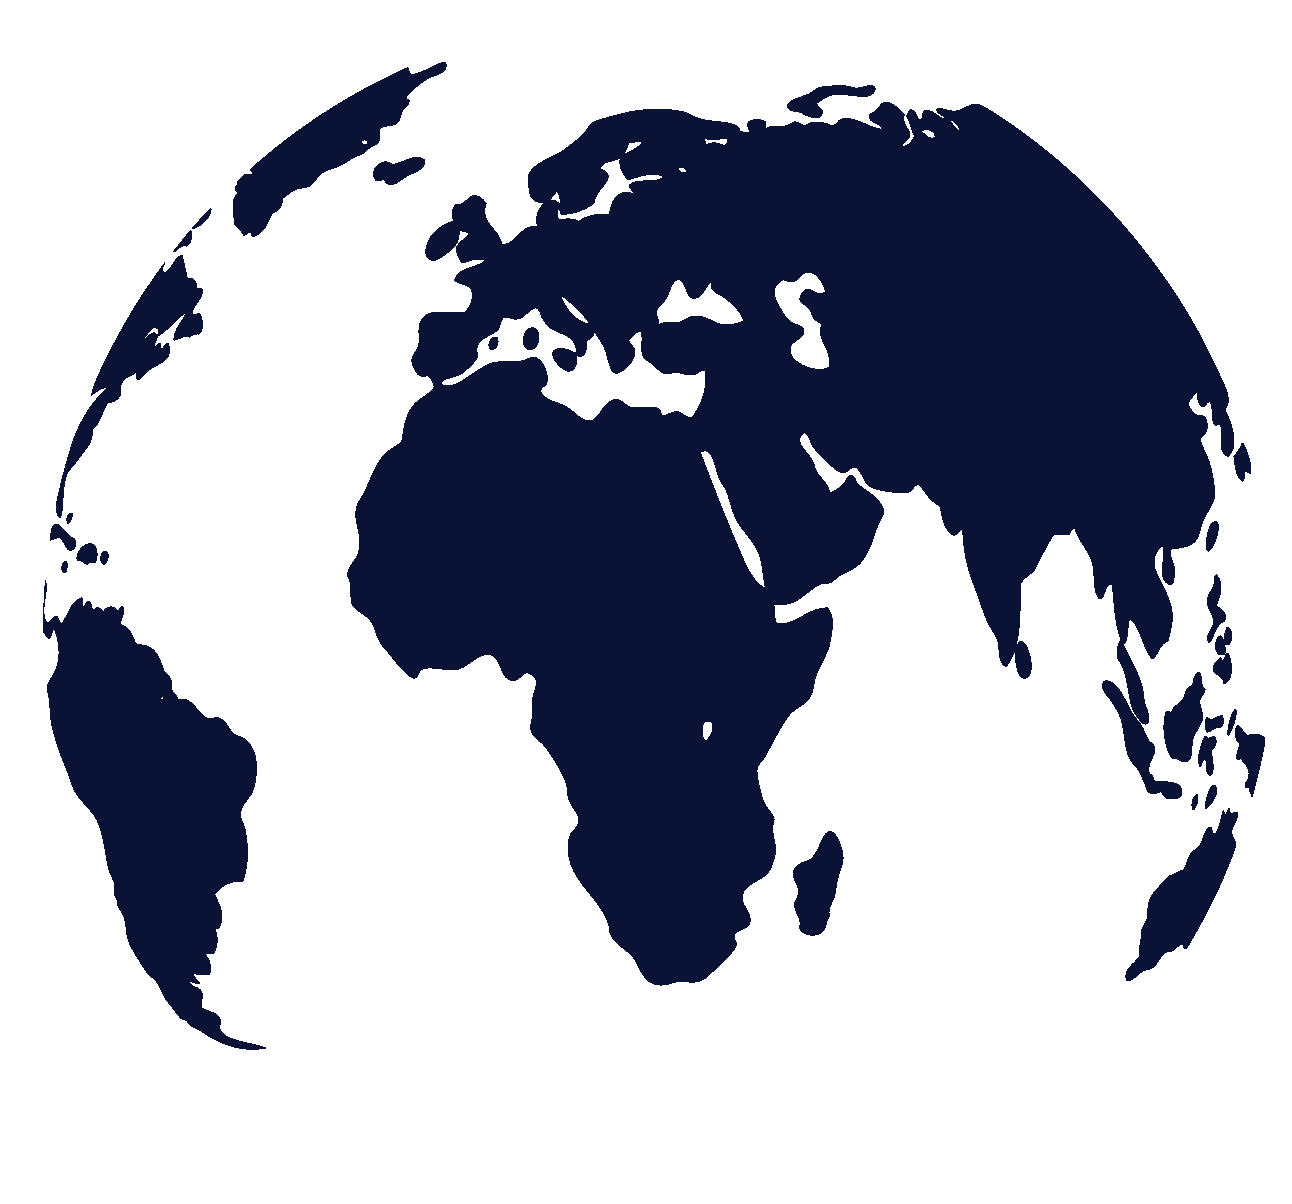
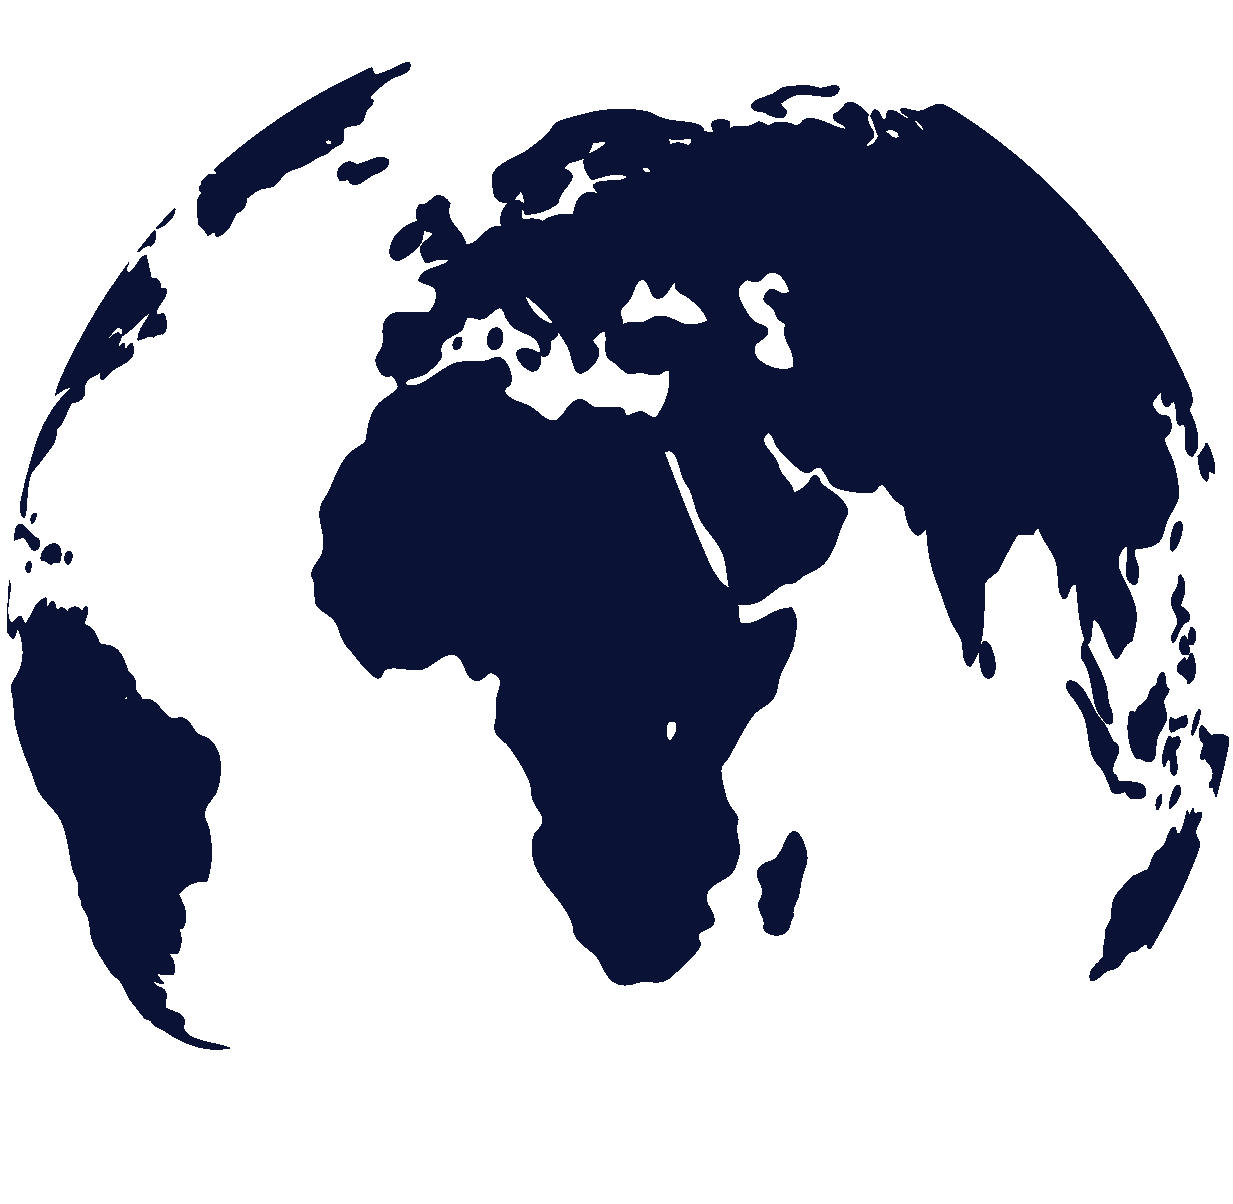
earth png for differetn sizes  added.

diff --git a/public/index.html b/public/index.html
@@ -22,7 +22,7 @@
       work correctly both with client-side routing and a non-root public URL.
       Learn how to configure a non-root public URL by running `npm run build`.
     -->
-  <title>React App</title>
+  <title>Country Detail React App</title>
 
   <link rel="stylesheet" href="https://cdn.jsdelivr.net/npm/bootstrap@5.1.0/dist/css/bootstrap.min.css" />
 
